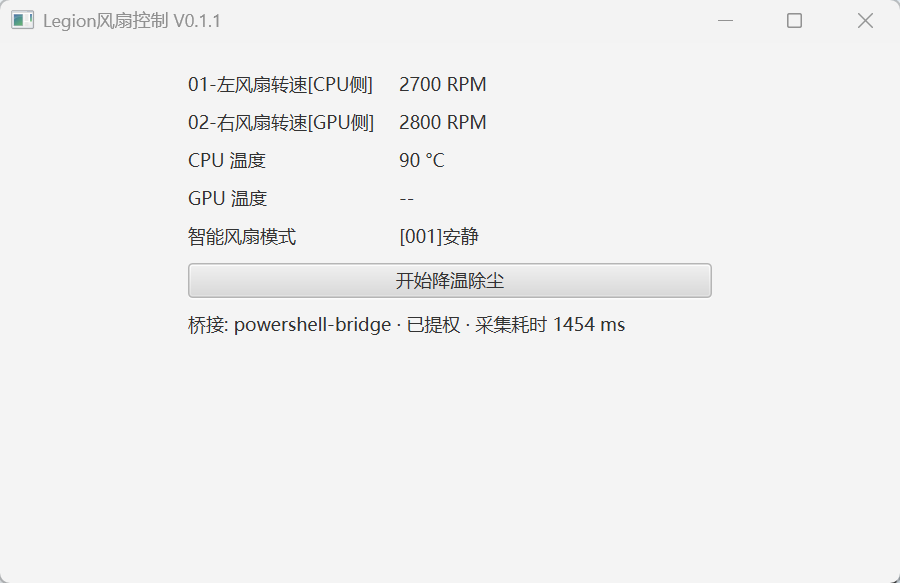
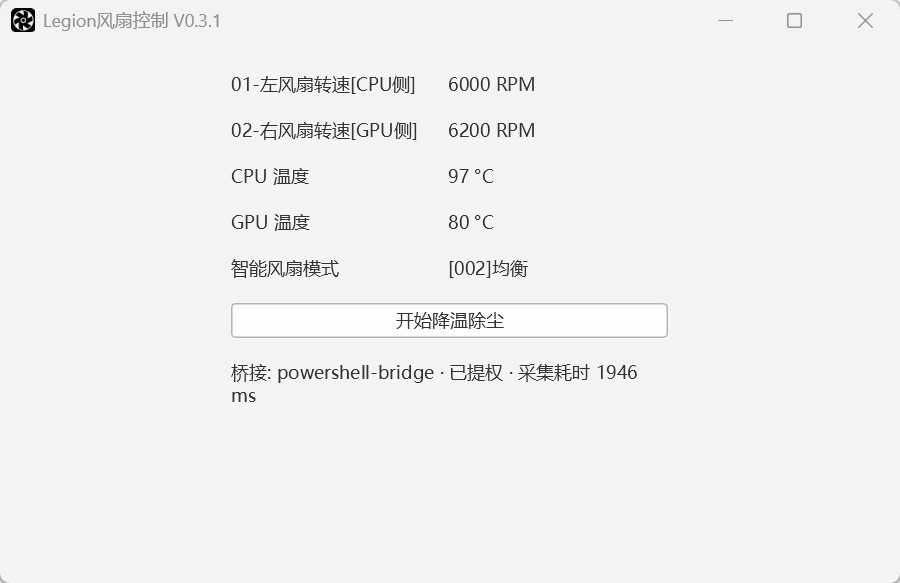
docs(readme): 用上传的真实截图替换占位图，并改回仓库内相对路径
- Docs/Asset/IMG/UI-Main.png：占位图（1577375 字节）→ 上传的真实截图（26131 字节，900x583）；
- README.md：图片地址由上传链接（user-attachments）改为仓库内相对路径
  Docs/Asset/IMG/UI-Main.png，并去掉「占位，待补充」字样；
- README.md 同时还原到 dev 的版本 —— 本分支此前基于较旧的 dev，PR 里夹带了
  「原生 exe 优先」顺序与 ** 修复等无关回退，这些不应出现在换图 PR 中；
- 同步去掉了「占位」标注：Docs/UserInterface.md 的「当前为占位图」说明改为「更换截图」说明，
  Docs/README.md 与 Docs/ProjectStructure.md 目录树里的「（占位）」标注删除。

diff --git a/README.md b/README.md
@@ -19,7 +19,7 @@
 
 ## 界面说明
 
-![界面截图](https://github.com/user-attachments/assets/7c5af861-52b2-4f61-a9af-f21bdde86bd8)
+![界面截图](Docs/Asset/IMG/UI-Main.png)
 
 > 各显示项、按钮状态与读数约定的完整说明见 [`Docs/UserInterface.md`](Docs/UserInterface.md)。
 
@@ -45,7 +45,23 @@
 
 ### 直接使用
 
-**双击 `Dist\Bootstrap.cmd` 即可。** 脚本已把运行所需的全部内容封装好：
+三种方式**任选其一**，用的都是同一份源码与同一个版本号。按推荐程度排列：
+
+#### 1. 原生镜像版（推荐）：双击 `Dist\LegionFanControl.exe`
+
+单个**自包含** exe，**不需要 JDK** —— JavaFX 平台原生库已编进镜像。
+
+| 项 | 说明 |
+|---|---|
+| 依赖 | 无（不需要 Java 运行时） |
+| 控制台窗口 | **不会出现**：exe 以 GUI 子系统链接，双击与右键「以管理员身份运行」都只有界面，也没有一闪。需要看 `渲染诊断：…` 日志时，从命令行运行它（日志打在那个 cmd 窗口里），或加 `--console` / 把 `-Dlegion.console=true` 写进快捷方式的「目标」 |
+| 管理员权限 | **需手动提权**：原生 exe 形态不支持启动时自提升（探不到 jar 路径），请右键「以管理员身份运行」（原因见下节） |
+
+详见 [`Dist/README.md`](Dist/README.md)。
+
+#### 2. JVM 版：双击 `Dist\Bootstrap.cmd`
+
+需要 **JDK 25+** 且 `java` 在 `PATH`（见「环境要求」）。脚本已把运行所需的全部内容封装好：
 
 | 脚本代劳的事项 | 说明 |
 |---|---|
@@ -56,20 +72,22 @@
 
 > `Dist/` 是**自包含文件夹**：整个目录拷贝到任意位置都能直接运行，不依赖源码工程。
 
-**原生镜像版（`Dist\LegionFanControl.exe`）**：以 **GUI 子系统**链接，所以**根本不会出现控制台窗口** ——
-双击、右键「以管理员身份运行」都只会看到界面。需要看 `渲染诊断：…` 日志时，从命令行运行它（日志会打在那个窗口里），
-或加 `--console` / 把 `-Dlegion.console=true` 写进快捷方式「目标」（详见 [`Dist/README.md`](Dist/README.md)）。
+#### 3. jar 模式：手动命令
 
-**手动命令方式**（在管理员终端中执行）：
+在**管理员**终端中执行：
 
 ```bash
 java --enable-native-access=ALL-UNNAMED -jar Dist/LegionFanControl.jar
 ```
 
+> 原生包与 JVM 包的版本号相同、源码相同；出问题时可以互相对照（例如比对原生包与 JVM 版的渲染差异）。
+
 ### 关于管理员权限（重要）
 
 > [!IMPORTANT]
-> **必须以管理员身份运行**（程序会自动申请 UAC 提权，无需手动处理）。联想 WMI 提供程序在非管理员上下文下会直接返回「拒绝访问」，转速与温度全部无法读取。
+> **必须以管理员身份运行**。联想 WMI 提供程序在非管理员上下文下会直接返回「拒绝访问」，转速与温度全部无法读取。
+>
+> 区别在于怎么拿到管理员权限： **`Bootstrap.cmd`（JVM 版）** 会在权限不足时自动弹出 UAC 请求提权，无需手动处理；**原生镜像版 exe** 不支持启动时自提升，需右键「以管理员身份运行」（或从已提权的终端启动）。
 > 详细说明见 [`Dist/README.md`](Dist/README.md) 的「为什么必须管理员权限」。
 
 ---

diff --git a/Docs/ProjectStructure.md b/Docs/ProjectStructure.md
@@ -85,7 +85,7 @@
     ├── NativeImageCi.md              原生镜像 CI 与发布（触发 / 工具链 / tag 规则 / 踩坑）
     ├── DevLog/                       开发过程日志（内部工作记忆脱敏导出）
     └── Asset/                        文档配图
-        └── IMG/UI-Main.png               界面截图（占位）
+        └── IMG/UI-Main.png               界面截图
 ```
 
 > `target/` 为构建产物，不纳入版本管理；`Probe/` 下的工具不参与打包（不在 `src/` 下）。

diff --git a/Docs/README.md b/Docs/README.md
@@ -19,7 +19,7 @@ Docs/
 ├── DevSpec/                      开发规范（文档命名与格式规范）
 ├── DevLog/                       开发过程日志（内部工作记忆脱敏导出，append-only）
 └── Asset/                        文档配图
-    └── IMG/UI-Main.png               界面截图（占位）
+    └── IMG/UI-Main.png               界面截图
 ```
 
 ---

diff --git a/Docs/UserInterface.md b/Docs/UserInterface.md
@@ -6,7 +6,7 @@
 
 ![界面截图](Asset/IMG/UI-Main.png)
 
-> 当前为占位图。替换时只需用真实截图覆盖 `Docs/Asset/IMG/UI-Main.png`，**无需改动任何 Markdown**。
+> 更换截图时只需覆盖 `Docs/Asset/IMG/UI-Main.png`，**无需改动任何 Markdown**。
 
 ---
 
